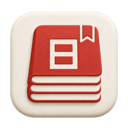
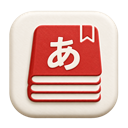
feat: redesign home learning center and typography

diff --git a/apps/nihongo-stack/src/styles.css b/apps/nihongo-stack/src/styles.css
@@ -110,7 +110,6 @@ button { transition: background-color 140ms ease-out, border-color 140ms ease-ou
 .topbar-action { min-height: 44px; padding: 8px 12px; border: 1px solid var(--line); background: var(--surface); border-radius: var(--control-radius); font-size: .8125rem; color: var(--muted); }
 .topbar-action:hover { border-color: var(--control-line); color: var(--ink); }
 .main-content { flex: 1; min-height: 0; width: 100%; padding: 24px 28px 48px; overflow-y: auto; overscroll-behavior: contain; scrollbar-gutter: stable; scroll-padding-block: 20px; }
-@media (min-width: 1051px) { .main-content-today { overflow-y: hidden; padding-bottom: 18px; } }
 .page-stack { display: grid; align-content: start; gap: 20px; max-width: 1220px; margin-inline: auto; min-width: 0; }
 .page-stack > * { min-width: 0; }
 .page-intro p { margin-top: 6px; max-width: 74ch; color: var(--muted); font-size: .9375rem; line-height: 1.65; text-wrap: pretty; }
@@ -306,7 +305,7 @@ button { transition: background-color 140ms ease-out, border-color 140ms ease-ou
 .material-header { display: flex; align-items: start; justify-content: space-between; gap: 16px; flex-wrap: wrap; padding-bottom: 16px; border-bottom: 1px solid var(--line); }
 .material-header h2 { font-size: 1.375rem; }
 .material-header p { color: var(--muted); font-size: .8125rem; margin-top: 4px; }
-.japanese-passage { font: 1.375rem/2.1 var(--jp-font); color: var(--ink); padding-block: 24px; overflow-wrap: anywhere; line-break: strict; word-break: normal; }
+.japanese-passage { font: 1.375rem/2.1 var(--jp-font); color: var(--ink); padding-block: 24px; overflow-wrap: normal; line-break: strict; word-break: normal; }
 ruby { ruby-position: over; }
 .japanese-passage rt { visibility: hidden; color: var(--muted); font-size: .55em; font-family: var(--jp-font); font-feature-settings: 'rclt' 0, 'ss01' 1; }
 .japanese-passage.show-furigana rt { visibility: visible; }
@@ -453,16 +452,16 @@ audio { display: block; width: 100%; min-height: 44px; }
 .study-layer-control { display: flex; align-items: center; gap: 8px; flex-wrap: wrap; font-size: .8125rem; }
 .study-layer-control > span { color: var(--muted); }
 .study-layer-control select { min-width: 156px; }
-.layered-japanese { font: 1.375rem/2.1 var(--jp-font); color: var(--ink); padding-block: 24px; overflow-wrap: anywhere; line-break: strict; word-break: normal; }
+.layered-japanese { font: 1.375rem/2.1 var(--jp-font); color: var(--ink); padding-block: 24px; overflow-wrap: normal; line-break: strict; word-break: normal; }
 .layered-japanese.layer-gloss, .layered-japanese.layer-romaji { line-height: 2.6; }
 .layered-japanese.layer-full { line-height: 3.6; padding-block: 28px 32px; }
 .guide-phrases .layered-japanese, .library-card-answer .layered-japanese, .transcript .layered-japanese { padding-block: 0; }
 .guide-phrases dt .layered-japanese { font: inherit; }
-.layered-japanese rt { color: var(--muted); font-size: .55em; font-family: var(--jp-font); }
-.layer-token { display: inline-flex; flex-direction: column; align-items: center; justify-content: end; gap: 1px; vertical-align: middle; position: relative; margin-inline: 1px; line-height: 1.15; }
+.layered-japanese rt { color: var(--muted); font-size: .55em; font-family: var(--jp-font); ruby-position: over; }
+.layer-token { display: inline-grid; grid-template-rows: auto auto auto; align-items: end; justify-items: center; vertical-align: middle; position: relative; margin-inline: 1px; line-height: 1.15; }
 .layered-japanese.layer-full .layer-token { margin-inline: .12em; }
-.layer-token ruby { line-height: 1.15; }
-.layer-gloss, .layer-romaji { display: block; max-width: 14em; color: var(--muted); font-family: var(--ui-font); font-size: max(.62em, 12px); line-height: 1.25; text-align: center; white-space: normal; overflow-wrap: break-word; }
+.layer-token ruby { line-height: 1.15; ruby-position: over; }
+.layer-gloss, .layer-romaji { display: block; max-width: 14em; color: var(--muted); font-family: var(--ui-font); font-size: max(.62em, 12px); line-height: 1.25; text-align: center; white-space: normal; overflow-wrap: normal; word-break: keep-all; }
 .layer-gloss { color: var(--green); }
 .layer-romaji { color: var(--accent); min-height: 1.1em; }
 .layer-full .layer-token { margin-inline: 1px; }
@@ -680,19 +679,19 @@ audio { display: block; width: 100%; min-height: 44px; }
 .jlpt-countdown strong { color: var(--accent); font-size: 1.35rem; font-variant-numeric: tabular-nums; }
 .jlpt-countdown strong small { margin-left: 2px; color: var(--muted); font-size: .75rem; font-weight: 400; }
 .jlpt-countdown span:last-child { margin-left: auto; }
-.today-single-grid { display: grid; grid-template-columns: minmax(300px, .8fr) minmax(0, 1.2fr); gap: 18px; align-items: stretch; }
+.today-entry-rail { display: grid; grid-template-columns: repeat(5, minmax(0, 1fr)); gap: 8px; }
+.today-entry-rail button { display: flex; align-items: center; gap: 8px; min-width: 0; min-height: 58px; padding: 9px 10px; border: 1px solid var(--line); border-radius: 9px; background: var(--surface); color: var(--muted); text-align: left; }
+.today-entry-rail button:hover { border-color: var(--control-line); background: var(--hover); color: var(--ink); }
+.today-entry-rail button > svg:first-child { color: var(--accent); }
+.today-entry-rail button > svg:last-child { margin-left: auto; color: var(--subtle); }
+.today-entry-rail button > span { display: grid; gap: 1px; min-width: 0; }
+.today-entry-rail strong { color: var(--ink); font-size: .8125rem; }
+.today-entry-rail small { overflow: hidden; color: var(--muted); font-size: .6875rem; text-overflow: ellipsis; white-space: nowrap; }
+.today-single-grid { display: grid; grid-template-columns: minmax(300px, .8fr) minmax(0, 1.2fr); gap: 18px; align-items: start; }
 .today-learning-grid { display: grid; grid-template-columns: repeat(2, minmax(0, 1fr)); gap: 18px; align-items: start; }
 .today-learning-grid > section { align-content: start; }
-.today-action-list { display: grid; grid-template-columns: repeat(3, minmax(0, 1fr)); gap: 4px; margin-top: 16px; padding-top: 12px; border-top: 1px solid var(--line); }
-.today-action { display: flex; align-items: center; gap: 10px; width: 100%; min-height: 44px; padding: 6px 4px; border: 0; border-radius: 6px; background: transparent; text-align: left; }
-.today-action:hover { background: var(--hover); }
-.today-action > svg:first-child { color: var(--accent); }
-.today-action > svg:last-child { margin-left: auto; color: var(--muted); }
-.today-action > span { display: grid; gap: 1px; min-width: 0; }
-.today-action strong { font-size: .875rem; }
-.today-action small { color: var(--muted); font-size: .75rem; overflow: hidden; text-overflow: ellipsis; white-space: nowrap; }
 .today-explanation { display: grid; gap: 12px; padding: 18px 20px; border: 1px solid var(--line); border-radius: 12px; background: var(--surface); box-shadow: var(--surface-shadow); }
-.today-explanation-japanese { display: -webkit-box; overflow: hidden; -webkit-box-orient: vertical; -webkit-line-clamp: 3; font: 1.2rem/1.65 var(--jp-font); }
+.today-explanation-japanese { display: -webkit-box; overflow: hidden; max-width: 100%; -webkit-box-orient: vertical; -webkit-line-clamp: 3; overflow-wrap: normal; line-break: strict; word-break: normal; font: 1.2rem/1.65 var(--jp-font); }
 .today-explanation-translation { color: var(--ink); font-size: .9375rem; line-height: 1.8; }
 .today-explanation-focus { display: flex; flex-wrap: wrap; gap: 6px; }
 .today-explanation-focus span { padding: 3px 8px; border: 1px solid var(--line); border-radius: 5px; color: var(--muted); font-size: .75rem; }
@@ -747,6 +746,7 @@ audio { display: block; width: 100%; min-height: 44px; }
   .topbar { margin: 6px 8px 0; padding-inline: 12px; }
   .today-overview-heading { flex-direction: column; gap: 10px; }
   .today-overview-actions { align-self: stretch; }
+  .today-entry-rail { grid-template-columns: repeat(2, minmax(0, 1fr)); }
   .today-overview-actions > * { flex: 1; }
   .jlpt-countdown { flex-wrap: wrap; gap: 4px 8px; }
   .jlpt-countdown span:last-child { width: 100%; margin-left: 0; }
@@ -789,7 +789,7 @@ audio { display: block; width: 100%; min-height: 44px; }
   .today-layout { grid-template-columns: minmax(0,1fr); gap: 16px; }
   .today-single-grid { grid-template-columns: minmax(0,1fr); }
   .today-learning-grid { grid-template-columns: minmax(0,1fr); }
-  .today-action-list { grid-template-columns: minmax(0,1fr); }
+  .today-entry-rail { grid-template-columns: repeat(3, minmax(0, 1fr)); }
   .study-plan-tracks { grid-template-columns: minmax(0,1fr); }
   .day-plan { display: grid; grid-template-columns: minmax(0,1fr) 200px; gap: 8px 24px; padding: 16px 20px; }
   .day-plan h2 { grid-column: 1; }

diff --git a/apps/nihongo-stack/src/App.tsx b/apps/nihongo-stack/src/App.tsx
@@ -697,7 +697,6 @@ function TodayPage({
           </div>
           <div className="today-overview-actions">
             {!baseline && <button className="text-button" onClick={() => setView('baseline')}>起点小测</button>}
-            <button className="outline-button" onClick={() => setView('jlpt')}>JLPT</button>
           </div>
         </div>
         <div className="jlpt-countdown" aria-label="JLPT N2 倒计时">
@@ -715,14 +714,35 @@ function TodayPage({
           <span style={{ width: `${(doneCount / tasks.length) * 100}%` }} />
         </div>
       </section>
+      <nav className="today-entry-rail" aria-label="快速学习入口">
+        <button onClick={() => setView('course')}>
+          <BookOpen size={18} />
+          <span><strong>课程</strong><small>选择单元</small></span>
+          <ArrowRight size={15} />
+        </button>
+        <button onClick={() => setView('review')}>
+          <Cards size={18} />
+          <span><strong>复习</strong><small>{due.length ? `${due.length} 张到期` : '继续记忆'}</small></span>
+          <ArrowRight size={15} />
+        </button>
+        <button onClick={() => openMaterial('reading', reading.id)}>
+          <BookOpen size={18} />
+          <span><strong>阅读</strong><small>{reading.title}</small></span>
+          <ArrowRight size={15} />
+        </button>
+        <button onClick={() => openMaterial('listening', listening.id)}>
+          <Headphones size={18} />
+          <span><strong>听力</strong><small>{unit.title}</small></span>
+          <ArrowRight size={15} />
+        </button>
+        <button onClick={() => setView('jlpt')}>
+          <GraduationCap size={18} />
+          <span><strong>JLPT</strong><small>{countdown.days} 天</small></span>
+          <ArrowRight size={15} />
+        </button>
+      </nav>
       <div className="today-single-grid">
         <section className="unit-focus" aria-label="当前学习单元">
-          <div className="unit-focus-top">
-            <button className="text-button" onClick={() => setView('course')}>
-              课程目录
-              <ArrowRight size={16} />
-            </button>
-          </div>
           <div className="unit-focus-title">
             <span className="unit-focus-number">
               {String(unit.order).padStart(2, '0')}
@@ -783,18 +803,6 @@ function TodayPage({
             </button>
           </div>
           <UnitGuide unit={unit} onNotify={onNotify} />
-          <div className="today-action-list" aria-label="学习入口">
-            {tasks.map((task) => {
-              const Icon = task.icon
-              return (
-                <button key={task.id} className="today-action" onClick={task.action}>
-                  <Icon size={19} />
-                  <span><strong>{task.title}</strong><small>{task.done ? '今天已完成，可继续重练' : task.detail}</small></span>
-                  <ArrowRight size={16} />
-                </button>
-              )
-            })}
-          </div>
         </section>
         <div className="today-learning-grid">
         <section className="quick-learn" aria-labelledby="quick-learn-title">

diff --git a/apps/nihongo-stack/mygo.config.ts b/apps/nihongo-stack/mygo.config.ts
@@ -3,8 +3,8 @@ import { defineConfig } from 'mygo-cli'
 export default defineConfig({
   name: 'Nihongo Stack',
   identifier: 'com.nihongostack.desktop',
-  version: '0.8.0',
-  icon: 'assets/app-icon-v0.7.png',
+  version: '0.9.0',
+  icon: 'assets/app-icon-v0.9.png',
   devUrl: 'http://127.0.0.1:5173',
   devCommand: 'npm run dev',
   buildCommand: 'npm run build',

diff --git a/apps/nihongo-stack/assets/ICON.md b/apps/nihongo-stack/assets/ICON.md
@@ -1,11 +1,11 @@
 # Nihongo Stack v0.3 图标
 
-内置 `image_gen` 生成，2026-10-08。米白圆角底板、朱红叠放书页、抽象「日」和书签。桌面和侧栏保持同一图形；MyGo 使用由 `public/app-icon-128.png` 高质量放大的 `assets/app-icon-v0.7.png` 生成 macOS `AppIcon.icns`。
+内置 `image_gen` 生成，2026-10-27。米白圆角底板、朱红叠放书页、抽象「あ」和书签。桌面和侧栏保持同一图形；MyGo 使用由 `public/app-icon-128.png` 高质量放大的 `assets/app-icon-v0.9.png` 生成 macOS `AppIcon.icns`。
 
 - 原稿：`app-icon-v0.3.png`
 - 侧栏：`../public/app-icon-128.png`
 - favicon：`../public/favicon-32.png`
-- 桌面：`app-icon-v0.7.png`，由 `mygo.config.ts` 作为 MyGo 应用图标使用；它由 `../public/app-icon-128.png` 生成。
+- 桌面：`app-icon-v0.9.png`，由 `mygo.config.ts` 作为 MyGo 应用图标使用；它由 `../public/app-icon-128.png` 生成。
 - 旧 v0.2 图标随旧程序保存在项目 `output/product-improvement/2026-10-08/before/`。
 
 生成提示词：
@@ -13,7 +13,7 @@
 ```text
 Use case: logo-brand.
 Asset type: finished macOS application icon for Nihongo Stack, a private Japanese study app.
-Create one square premium macOS icon, isolated on actual transparent background. A warm ivory softly rounded-square ceramic / finely textured paper tile, nearly filling the canvas with a small transparent perimeter. Within the tile, a bold vermilion Japanese 日-inspired open book / stacked study-card symbol: three distinct stacked ivory page edges and one large confident red rectangular book face with a simple ivory horizontal opening. Integrate a small refined vermilion bookmark at the upper right, as part of the book, not an extra object. Strong simple geometry and slightly tactile embossed depth; restrained soft lighting and a subtle natural shadow directly beneath the tile. Palette warm ivory #f6f1e7, deep vermilion #b83b31, ink #302522 only if needed. Calm Japanese stationery aesthetic, sophisticated and highly recognizable at 32px. Front view, centered, symmetrical balance, generous internal negative space, no perspective rotation, no tiny details, no surrounding scene, no lettering other than the abstract 日 geometry, no words, no UI, no border frame, no watermark. Exactly one finished icon, not a presentation board.
+Create one square premium macOS icon, isolated on actual transparent background. A warm ivory softly rounded-square ceramic / finely textured paper tile, nearly filling the canvas with a small transparent perimeter. Within the tile, a bold vermilion Japanese あ-inspired open book / stacked study-card symbol: three distinct stacked ivory page edges and one large confident red rectangular book face with a simple ivory horizontal opening. Integrate a small refined vermilion bookmark at the upper right, as part of the book, not an extra object. Strong simple geometry and slightly tactile embossed depth; restrained soft lighting and a subtle natural shadow directly beneath the tile. Palette warm ivory #f6f1e7, deep vermilion #b83b31, ink #302522 only if needed. Calm Japanese stationery aesthetic, sophisticated and highly recognizable at 32px. Front view, centered, symmetrical balance, generous internal negative space, no perspective rotation, no tiny details, no surrounding scene, no lettering other than the abstract あ geometry, no words, no UI, no border frame, no watermark. Exactly one finished icon, not a presentation board.
 ```
 
 修订：保留书页、配色、形状与内部材质，仅请求清理外部透明轮廓和移除底部阴影。使用内置工具，未调用 API CLI。

diff --git a/docs/releases/DELIVERY_v0.9.0_20261027.md b/docs/releases/DELIVERY_v0.9.0_20261027.md
@@ -1,0 +1,33 @@
+# Nihongo Stack v0.9.0
+
+本版完成首页与全局排版的深度重构，重点修正入口混乱、内容拥挤和日文学习层错位。
+
+## 首页
+
+- 采用“高效学习中心”布局，把课程、复习、阅读、听力和 JLPT 入口集中到首页上方。
+- 保留当前单元、下一步、JLPT 天数与小时倒计时。
+- “随手学一题”和“今日详解”继续作为两个并列学习模块。
+- 桌面端首页核心内容保持在一个视窗内；移动端自然降级为可滚动纵向布局。
+
+## 排版与 UI
+
+- 修正日文段落、ruby 注音、罗马音、释义层、JLPT 题干和选项的换行规则。
+- 减少中文和日文混排时的异常断行、过度压缩和内联 flex 造成的竖排。
+- 统一学习入口、学习卡、阅读材料、题目选项和辅助提示的对齐与文字层级。
+- 资料页、阅读页和 JLPT 页完成桌面端视觉复核。
+
+## 图标
+
+- 保留原书籍、书签、米白底板和朱红配色。
+- 将书面中央的“日”替换为日语平假名「あ」。
+- 更新 MyGo 桌面图标、侧栏图标和 favicon。
+
+## 验证
+
+- `npm run build`
+- `npm run test:learning`
+- `npm run test:content`
+- Impeccable mechanical detector
+- 浏览器桌面与移动端首页检查
+- 资料阅读页与 JLPT 页排版检查
+- MyGo macOS arm64 构建

diff --git a/apps/nihongo-stack/DESIGN.md b/apps/nihongo-stack/DESIGN.md
@@ -93,3 +93,11 @@
 - 首页并列显示可刷新卡片练习和当前阅读材料的原文、译文、理解重点，减少在多个页面之间来回寻找内容。
 - JLPT 目标日期在首页显示剩余天数和小时数；建议学习时长只用于节奏提示。
 - 新卡和到期卡不再按每日额度截断，复习批次仅用于界面分组，支持一次查看全部待练内容。
+
+## v0.9.0 首页重构与排版修正
+
+- 首页采用“高效学习中心”结构：上方集中课程、复习、阅读、听力和 JLPT 入口，下方保留当前单元、随机练习和今日详解。
+- 桌面端入口、学习模块和目标信息使用明确的横向分组，避免入口挤成窄列或由概览卡片争夺主要注意力；移动端按两列入口和自然纵向内容降级。
+- 日文阅读层统一使用正常日文断行，减少 `overflow-wrap: anywhere`、ruby 行盒和内联 flex 造成的文字竖排、断裂和错位。
+- 应用图标保留原书籍、书签、米白底板和朱红配色，仅将书面中央字形改为日语平假名「あ」。
+- 视觉验收覆盖首页桌面、首页移动端、资料阅读页和 JLPT 页；核心内容、学习层和备份格式保持兼容。

diff --git a/apps/nihongo-stack/README.md b/apps/nihongo-stack/README.md
@@ -1,6 +1,6 @@
 # Nihongo Stack 应用说明
 
-当前开发版为 0.8.0。它是一套本机优先的 Mac 日语学习应用，前端同时可以构建为浏览器版本。
+当前开发版为 0.9.0。它是一套本机优先的 Mac 日语学习应用，前端同时可以构建为浏览器版本。
 
 产品总览、模块说明和截图入口见仓库根目录的 [README](../../README.md)。
 
